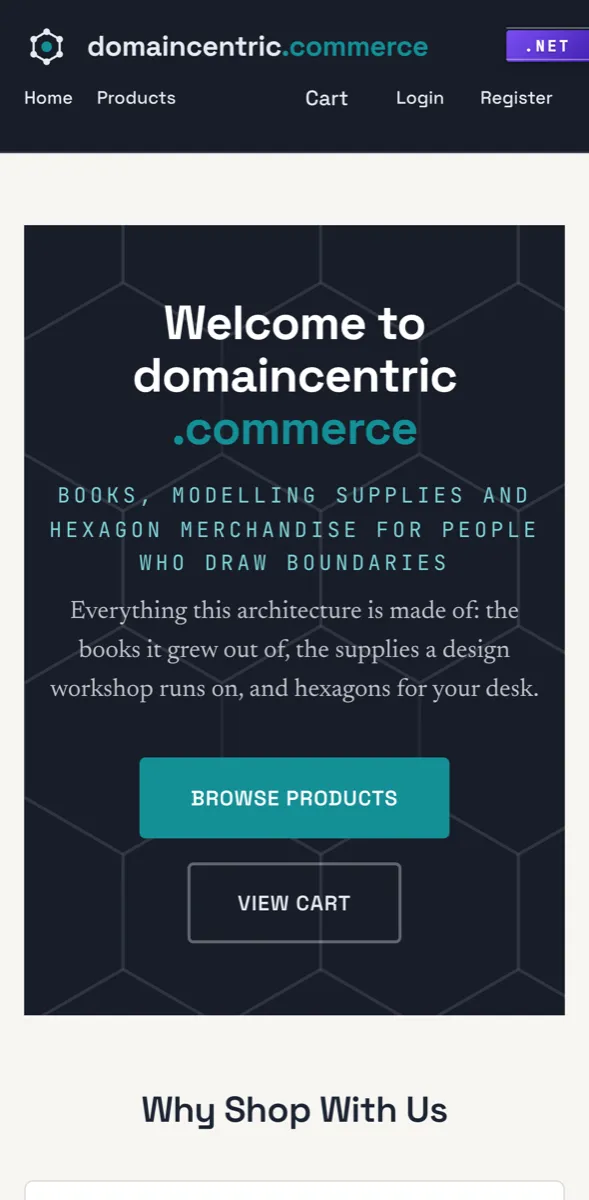
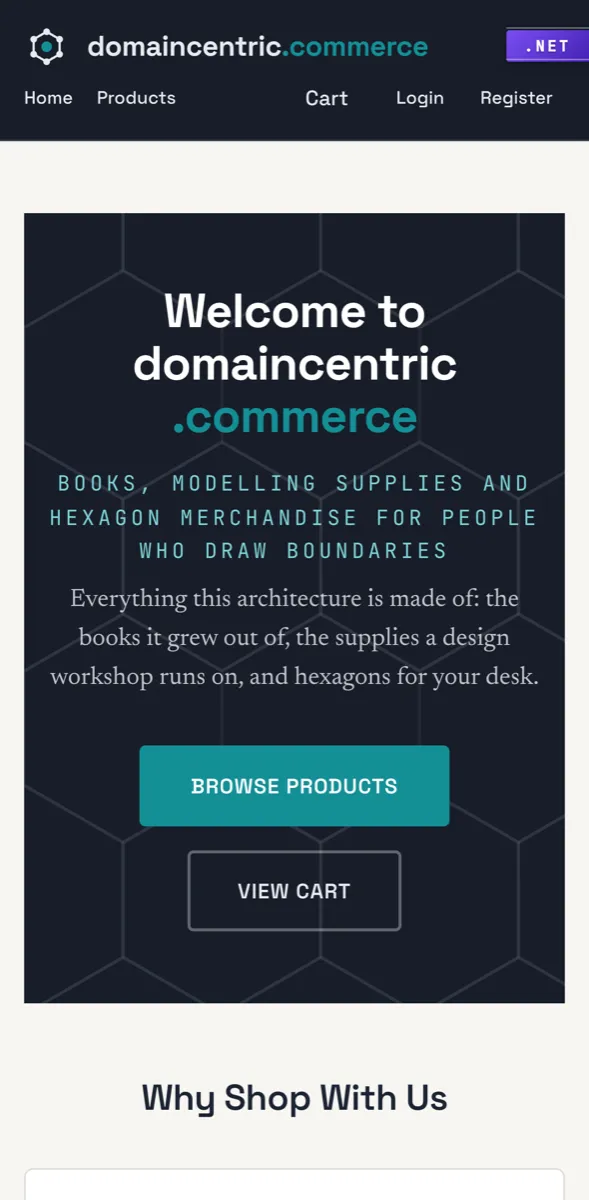
feat(site): switch a screenshot between desktop and phone
The breakpoint decides what you see first — a phone opens on the phone
capture, a laptop on the desktop one — and a switch above the picture lets you
look at the other without resizing anything. Each tab keeps its own choice.

The switch is an enhancement: without JavaScript it is not rendered at all and
the media query alone decides, as before. The phone capture is capped at 360 px
wide so it is never blown up on a large screen, which is what the previous
picture element did between 600 and 700 px.

The screenshots are retaken after the header spacing changed in both samples.

diff --git a/preview/index.html b/preview/index.html
@@ -78,6 +78,26 @@
   .tablist button:focus-visible { outline: 2px solid var(--teal-dark); outline-offset: 2px; border-radius: 4px 4px 0 0; }
   .tabpanel { padding-top: 8px; }
   .tabpanel .shot { margin-top: 26px; }
+  /* Desktop- und Handy-Aufnahme: der Breakpoint setzt den Startzustand, der Schalter überstimmt ihn */
+  .viewswitch { display: none; margin-top: 26px; gap: 4px; padding: 3px; border: 1px solid var(--line); border-radius: 8px; background: #ffffff; }
+  .js .viewswitch { display: inline-flex; }
+  .viewswitch button { font-family: var(--display); font-size: 14px; font-weight: 500; color: var(--muted);
+    background: none; border: 0; border-radius: 5px; padding: 6px 14px; cursor: pointer; }
+  .viewswitch button:hover { color: var(--ink); }
+  .viewswitch button[aria-pressed="true"] { background: var(--mist); color: var(--teal-dark); }
+  .viewswitch button:focus-visible { outline: 2px solid var(--teal-dark); outline-offset: 2px; }
+  .shot--phone { display: none; }
+  .shot--phone img { max-width: 360px; margin: 0 auto; }
+  @media (max-width: 700px) {
+    .shot--desktop { display: none; }
+    .shot--phone { display: block; }
+  }
+  /* die Wahl des Lesers schlägt den Breakpoint — höhere Spezifität, unabhängig von der Media Query */
+  [data-view="desktop"] .shot--desktop { display: block; }
+  [data-view="desktop"] .shot--phone { display: none; }
+  [data-view="phone"] .shot--phone { display: block; }
+  [data-view="phone"] .shot--desktop { display: none; }
+
   /* without JavaScript both panels stay readable, each behind its own heading */
   .tabpanel > h3 { font-family: var(--display); font-weight: 700; font-size: 20px; margin-top: 26px; }
   .js .tabpanel > h3 { position: absolute; width: 1px; height: 1px; overflow: hidden; clip: rect(0 0 0 0); white-space: nowrap; }
@@ -403,13 +423,19 @@ checkout.adapter.outgoing
 
       <div class="tabpanel" id="panel-java" role="tabpanel" aria-labelledby="tab-java" tabindex="0">
         <h3>Java · Spring Boot</h3>
-        <figure class="shot">
-          <picture>
-            <source media="(max-width: 700px)" srcset="assets/shop-java-mobile.webp" width="589" height="1200">
-            <img src="assets/shop-java.webp" width="1800" height="1125" loading="lazy"
-                 alt="The Java shop: the domaincentric.commerce home page with its hero, the browse and cart buttons, and an orange JAVA ribbon in the corner">
-          </picture>
-          <figcaption>docker compose up --build &mdash; localhost:8080. On a phone you get the phone's view of it.</figcaption>
+        <div class="viewswitch" role="group" aria-label="Screenshot size, Java">
+          <button type="button" data-view="desktop" aria-pressed="true">Desktop</button>
+          <button type="button" data-view="phone" aria-pressed="false">Phone</button>
+        </div>
+        <figure class="shot shot--desktop">
+          <img src="assets/shop-java.webp" width="1800" height="1125" loading="lazy"
+               alt="The Java shop on a desktop browser: the domaincentric.commerce home page with its hero and a orange JAVA ribbon in the corner">
+          <figcaption>docker compose up --build &mdash; localhost:8080. The ribbon says which shop you are on.</figcaption>
+        </figure>
+        <figure class="shot shot--phone">
+          <img src="assets/shop-java-mobile.webp" width="589" height="1200" loading="lazy"
+               alt="The same Java shop on a phone: the logo on its own line, every link under it, the orange JAVA tag in the top-right corner">
+          <figcaption>The same page at 393&nbsp;px &mdash; links under the logo, the stack tag in the corner.</figcaption>
         </figure>
         <ul class="facts">
           <li><b>Java 25 · Spring Boot 4</b><span>Spring Modulith for the module boundaries, the event
@@ -426,13 +452,19 @@ checkout.adapter.outgoing
 
       <div class="tabpanel" id="panel-dotnet" role="tabpanel" aria-labelledby="tab-dotnet" tabindex="0">
         <h3>.NET · ASP.NET Core</h3>
-        <figure class="shot">
-          <picture>
-            <source media="(max-width: 700px)" srcset="assets/shop-dotnet-mobile.webp" width="589" height="1200">
-            <img src="assets/shop-dotnet.webp" width="1800" height="1125" loading="lazy"
-                 alt="The .NET shop: the same domaincentric.commerce home page, pixel for pixel, with a violet .NET ribbon in the corner instead of the orange JAVA one">
-          </picture>
-          <figcaption>docker compose up --build &mdash; localhost:5080. The same page, down to the wording, at either size.</figcaption>
+        <div class="viewswitch" role="group" aria-label="Screenshot size, .NET">
+          <button type="button" data-view="desktop" aria-pressed="true">Desktop</button>
+          <button type="button" data-view="phone" aria-pressed="false">Phone</button>
+        </div>
+        <figure class="shot shot--desktop">
+          <img src="assets/shop-dotnet.webp" width="1800" height="1125" loading="lazy"
+               alt="The .NET shop on a desktop browser: the domaincentric.commerce home page with its hero and a violet .NET ribbon in the corner">
+          <figcaption>docker compose up --build &mdash; localhost:5080. The same page, down to the wording.</figcaption>
+        </figure>
+        <figure class="shot shot--phone">
+          <img src="assets/shop-dotnet-mobile.webp" width="589" height="1200" loading="lazy"
+               alt="The same .NET shop on a phone: the logo on its own line, every link under it, the violet .NET tag in the top-right corner">
+          <figcaption>The same page at 393&nbsp;px &mdash; links under the logo, the stack tag in the corner.</figcaption>
         </figure>
         <ul class="facts">
           <li><b>ASP.NET Core</b><span>one project per bounded context, the boundaries carried by the
@@ -740,6 +772,18 @@ dotnet test                   <span class="c"># .NET — the architecture projec
       });
     });
     select(buttons[0]);
+  }
+
+  // Screenshot size: the breakpoint picks the first view, a click overrides it for the rest of the visit.
+  for (const group of document.querySelectorAll(".viewswitch")) {
+    const panel = group.closest(".tabpanel");
+    const buttons = [...group.querySelectorAll("button")];
+    const show = (view) => {
+      panel.dataset.view = view;
+      for (const button of buttons) button.setAttribute("aria-pressed", String(button.dataset.view === view));
+    };
+    for (const button of buttons) button.addEventListener("click", () => show(button.dataset.view));
+    show(window.matchMedia("(max-width: 700px)").matches ? "phone" : "desktop");
   }
 </script>
 </body>
